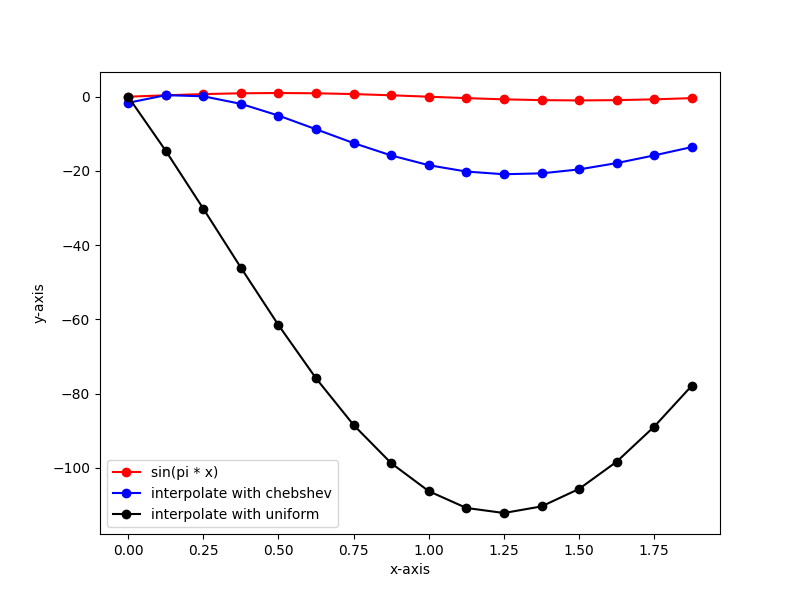
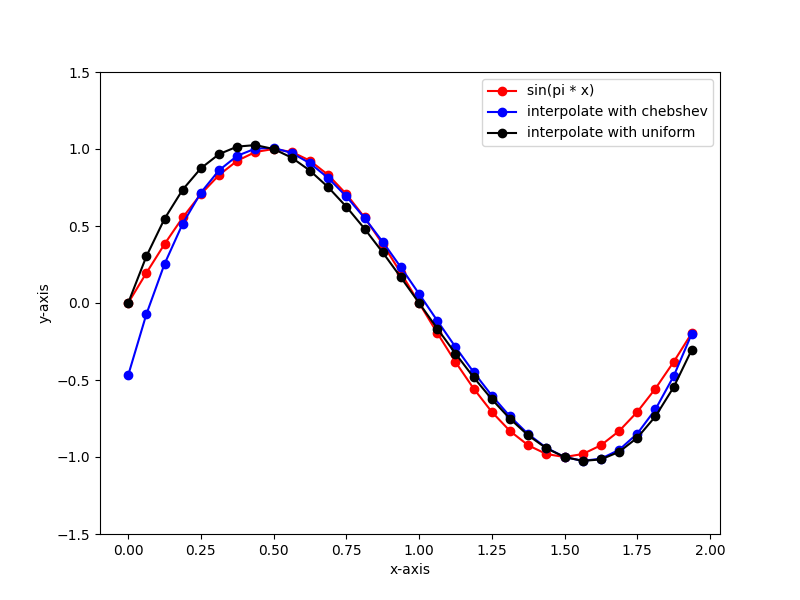
update homework1 : finished

diff --git a/HW01/homework.py b/HW01/homework.py
@@ -20,21 +20,27 @@ Compare your results while increasing the node number for the integration of y =
 import matplotlib.pyplot as plt
 import numpy as np
 import math
-from typing import List, Callable, Union
+from typing import List, Callable, Union, Literal
 
 # nodes generator : random / uniform / chebshev
+# random nodes
 def generate_random_nodes(n_nodes : int, lower : float, upper : float):
     result = np.random.rand(n_nodes)
     result = lower + (upper - lower) * result
     return result
 
+# uniform nodes
 def generate_uniform_nodes(n_nodes : int, lower : float, upper : float):
     result = np.array([i / n_nodes for i in range(n_nodes)])
     result = lower + (upper - lower) * result
     return result
 
-def generate_chebyshev_nodes(n_nodes : int, lower : float, upper : float):
-    indices = [math.pi * idx / n_nodes for idx in range(0,n_nodes)]
+# chebyshev nodes
+def generate_chebyshev_nodes(n_nodes : int, lower : float, upper : float, mode_type : Literal['type_1', 'type_2'] = 'type_1'):
+    if mode_type == 'type_1':
+        indices = [math.pi * idx / n_nodes for idx in range(0,n_nodes)]
+    else:
+        indices = [math.pi * (2 * idx + 1) / (2 * n_nodes + 1) for idx in range(0,n_nodes)]
     result = (lower + upper)/2  + (upper - lower)/2 * np.cos(indices)
     return sorted(result)
 
@@ -45,6 +51,8 @@ def func(x : float, lower : float = 0, upper : float = 2.0)->float:
     else:
         ValueError("x should be in range of [{},{}]".format(lower, upper))
 
+# compute polynomial 
+# p_k(x) = a_0 + a_1 * (x-x_0) + a_2 * (x-x_0) * (x-x_1) + ....
 def compute_polynomial(x : float, coeffs : List, x_data : List):
     n = len(coeffs)
     result = coeffs[0]
@@ -56,6 +64,16 @@ def compute_polynomial(x : float, coeffs : List, x_data : List):
         
     return result
 
+# compute polynomial with multiple data
+# x : [x_0, x_1, ...]
+# output : [p_k(x_0), p_k(x_1), ...]
+def compute_polynomials(xs : Union[List, np.array], coeffs : List, x_data : List):
+    y = [] 
+    for x in xs:
+        y.append(compute_polynomial(x, coeffs, x_data))
+    return np.array(y)
+
+# compute Newton interpolation coefficient
 def compute_coeffs(func : Callable[[float], float], x_data : Union[List[float], np.array]):
     y_data = [func(x) for x in x_data]
     y_data = np.array(y_data)
@@ -73,33 +91,24 @@ def compute_coeffs(func : Callable[[float], float], x_data : Union[List[float], 
             mat[idx_j, idx_i] = dy / dx
     
     coeffs = np.diag(mat)
-
     return coeffs
 
 if __name__ == "__main__":
 
-    n_nodes = 8
+    n_nodes = 4
     lower = 0
     upper = 2
 
-    nodes_cheb = generate_chebyshev_nodes(n_nodes, lower, upper)
+    nodes_cheb = generate_chebyshev_nodes(n_nodes, lower, upper, 'type_2')
     nodes_uniform = generate_uniform_nodes(n_nodes, lower, upper)
 
     coeffs_cheb = compute_coeffs(func, nodes_cheb)
     coeffs_uniform = compute_coeffs(func, nodes_uniform)
 
-    print("coffs_cheb : ", coeffs_cheb)
-    print("coffs_uniform : ", coeffs_uniform)
-
-    xs = generate_uniform_nodes(16, 0, 2)
-    y_cheb = []
-    y_uniform = []
-    for x in xs:
-        y_cheb.append(compute_polynomial(x, coeffs_cheb, coeffs_cheb))
-        y_uniform.append(compute_polynomial(x, coeffs_uniform, coeffs_uniform))
-        
-    y_cheb = np.array(y_cheb)
-    y_uniform = np.array(y_uniform)
+    xs = generate_uniform_nodes(32, 0, 2)
+ 
+    y_cheb = compute_polynomials(xs, coeffs_cheb, nodes_cheb)
+    y_uniform = compute_polynomials(xs, coeffs_uniform, nodes_uniform)
     y_real = np.array([func(x) for x in xs])
 
     plt.figure(figsize = (8,6))
@@ -108,5 +117,38 @@ if __name__ == "__main__":
     plt.plot(xs, y_uniform, 'ko-',label = 'interpolate with uniform')
     plt.xlabel("x-axis")
     plt.ylabel("y-axis")
+    plt.ylim([-1.5, 1.5])
     plt.legend()
     plt.savefig("./interpolation.png")
+
+    # use different n_nodes
+
+    n_nodes_list = [4, 8, 16]
+    y_cheb_list = []
+    y_uniform_list = []
+
+    for n_nodes in n_nodes_list:
+        nodes_cheb = generate_chebyshev_nodes(n_nodes, lower, upper, 'type_2')
+        nodes_uniform = generate_uniform_nodes(n_nodes, lower, upper)
+
+        coeffs_cheb = compute_coeffs(func, nodes_cheb)
+        coeffs_uniform = compute_coeffs(func, nodes_uniform)
+
+        y_cheb = compute_polynomials(xs, coeffs_cheb, nodes_cheb)
+        y_uniform = compute_polynomials(xs, coeffs_uniform, nodes_uniform)
+
+        y_cheb_list.append(y_cheb)
+        y_uniform_list.append(y_uniform)
+
+    plt.figure(figsize = (8,6))
+    plt.plot(xs, y_real, 'ro-',label = 'sin(pi * x)')
+
+    for n_nodes, y_cheb, y_uniform in zip(n_nodes_list, y_cheb_list, y_uniform_list):
+        plt.plot(xs, y_cheb, label = "n_nodes : {} cheb".format(n_nodes))
+        plt.plot(xs, y_uniform, label = "n_nodes : {} uniform".format(n_nodes))
+
+    plt.xlabel("x-axis")
+    plt.ylabel("y-axis")
+    plt.ylim([-1.5, 1.5])
+    plt.legend()
+    plt.savefig("./interpolation_n_nodes.png")

diff --git a/README.md b/README.md
@@ -1,0 +1,5 @@
+# 편미분방정식의 수치해석
+### Index
+1. lecture 01 : Computer Architecture
+2. lecture 02 : Interpolation
+3. lecture 03 : Differentiation and Integration
